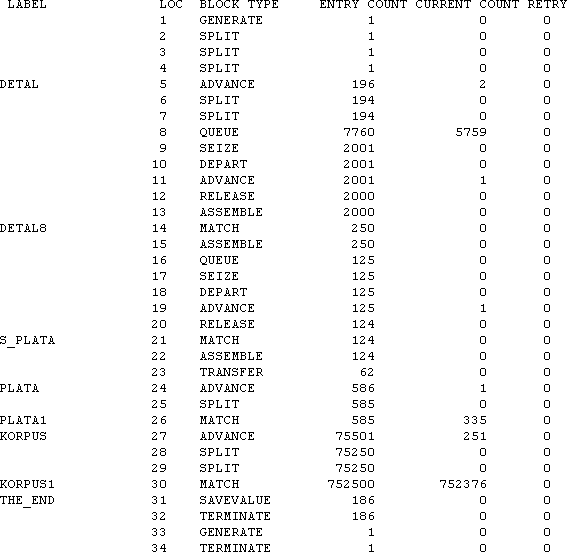
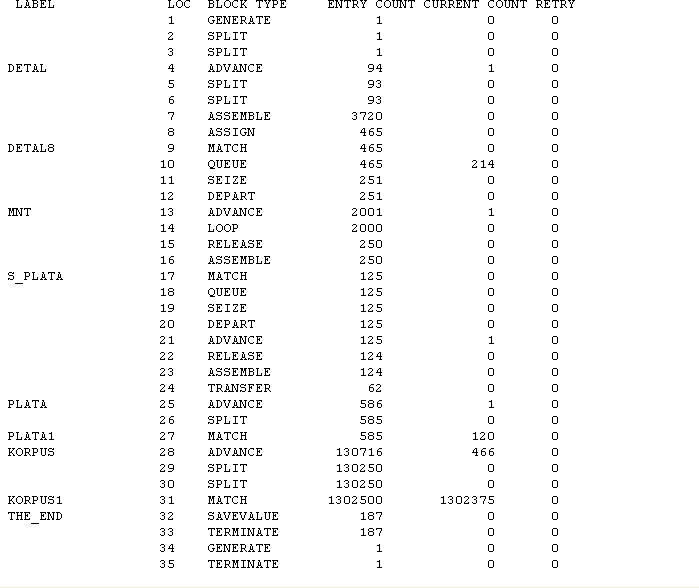
update ims #7

diff --git a/discipline/IMS/lab_7/report/text/process.tex b/discipline/IMS/lab_7/report/text/process.tex
@@ -31,6 +31,16 @@
 моделирования исходной задачи, получим отчёт, представленные на
 рисунках~\ref{pic:report_1}--\ref{pic:report_2}.
 
+Общее число выпущенных изделий хранится в переменной GOTOV и 
+по истечении 100 часов моделирования равно 187.
+
+Исходя из результатов моделирования, можно утверждать, что 
+станок, производящий закрепление детали на плате, сильно перегружен,
+так как его коэффициент загрузки составляет 0{,}998, а станок,
+устанвливающий собранные платы в корпуса, наоборот, сильно недогружен
+(коэффициент загрузки --- 0{,}074). 
+
+
 \begin{figure}[h!]
   \centering
   \includegraphics[width=0.8\linewidth]{pic/report_1}
@@ -45,19 +55,11 @@
   \label{pic:report_stat}
 \end{figure}
 
-Общее число выпущенных изделий хранится в переменной GOTOV и 
-по истечении 100 часов моделирования равно 186.
-
-Исходя из результатов моделирования, можно утверждать, что 
-станок, производящий закрепление детали на плате, сильно перегружен,
-так как его коэффициент загрузки составляет 0{,}998.
-
 \begin{figure}[h!]
   \centering
   \includegraphics[width=0.8\linewidth]{pic/report_2}
   \caption{Статистика исполнения команд имитационной модели}
   \label{pic:report_2}
 \end{figure}
-
 
 \newpage
